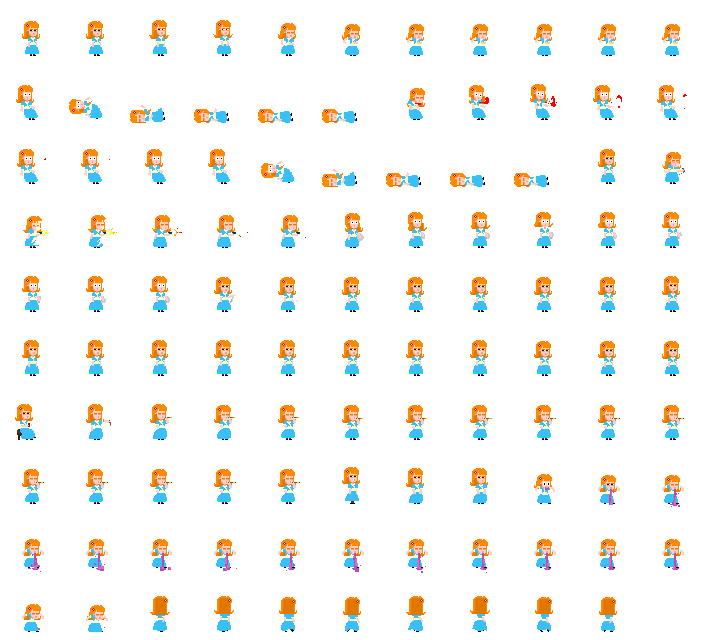
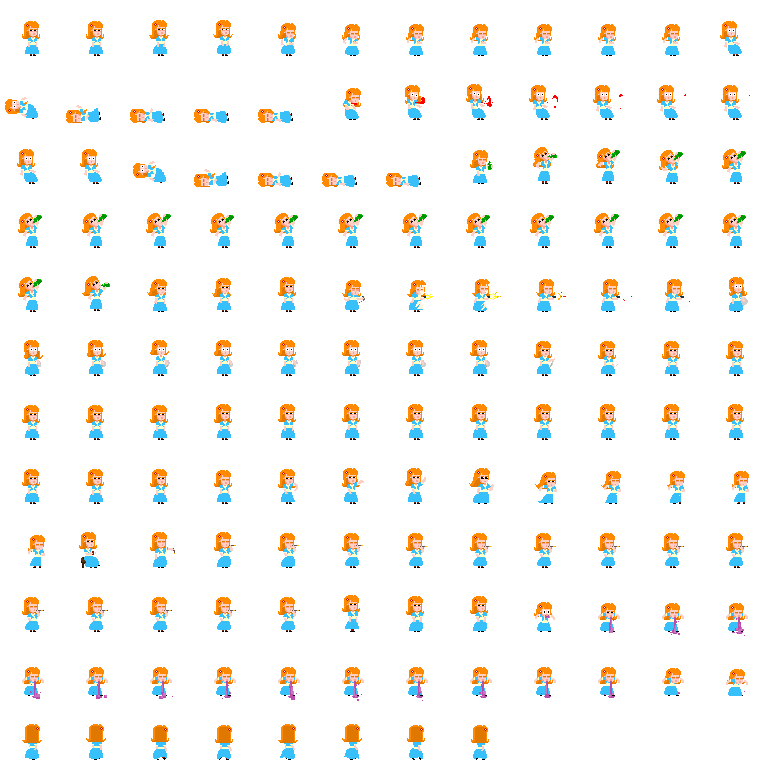
Add coin alert, Money ol, money managment

diff --git a/drunkparanoia/drunkparanoia/scene.py b/drunkparanoia/drunkparanoia/scene.py
@@ -10,7 +10,7 @@ from drunkparanoia.background import Prop, Background, Overlay
 from drunkparanoia.character import Character
 from drunkparanoia.coordinates import (
     box_hit_box, point_in_rectangle, box_hit_polygon, path_cross_polygon,
-    path_cross_rect)
+    path_cross_rect, Coordinates)
 from drunkparanoia.config import (
     DIRECTIONS, GAMEROOT, COUNTDOWNS, LOOP_STATUSES, CHARACTER_STATUSES,
     MAX_MESSAGES, VARIANTS_COUNT)
@@ -18,11 +18,11 @@ from drunkparanoia.duel import find_possible_duels
 from drunkparanoia.io import (
     load_image, load_data, quit_event, list_joysticks, image_mirror,
     choice_kill_sentence, choice_random_name, play_sound, stop_sound,
-    stop_ambiance)
+    stop_ambiance, load_frames)
 from drunkparanoia.joystick import get_current_commands
 from drunkparanoia.npc import Npc, Pianist, Barman, Sniper
 from drunkparanoia.player import Player
-from drunkparanoia.sprite import SpriteSheet
+from drunkparanoia.sprite import SpriteSheet, image_index_from_durations
 
 
 VIRGIN_SCORES = {
@@ -354,6 +354,7 @@ class Scene:
         self.stairs = []
         self.targets = []
         self.vfx = []
+        self.animated_vfx = []
         self.walls = []
         self.sniperreticles = []
         # Runtime
@@ -364,15 +365,21 @@ class Scene:
         self.character_generator = None
         self.messenger = Messenger()
 
+    def coins_position(self, index):
+        return self.data['score'][f'player{index + 1}']['coins_position']
+
     def create_vfx(self, name, position, flipped=True):
         for vfx in self.vfx:
-            if vfx.get('type') != 'static' or vfx.get('name') != name:
-                continue
-            image = load_image(vfx['file'])
-            if flipped:
-                image = image_mirror(image, horizontal=True)
-            self.overlays.append(Overlay(image, position, vfx['y']))
-            return
+            if vfx.get('type') == 'static' and vfx.get('name') == name:
+                image = load_image(vfx['file'])
+                if flipped:
+                    image = image_mirror(image, horizontal=True)
+                self.overlays.append(Overlay(image, position, vfx['y']))
+                return
+            if vfx.get('type') == 'animated' and vfx.get('name') == name:
+                data = load_data(vfx['file'])
+                self.animated_vfx.append(Vfx(data, position))
+                return
 
     @property
     def done(self):
@@ -428,7 +435,8 @@ class Scene:
     def elements(self):
         return (
             self.characters + self.props + self.overlays +
-            self.secondary_npcs + self.interactive_props)
+            self.secondary_npcs + self.interactive_props +
+            self.animated_vfx)
 
     def inclination_at(self, point):
         return next((
@@ -489,6 +497,16 @@ class Scene:
             self.possible_duels = []
             return
         self.possible_duels = find_possible_duels(self)
+        to_delete = []
+        for vfx in self.animated_vfx:
+            if vfx.type == 'static':
+                continue
+            if vfx.animation_is_done:
+                to_delete.append(vfx)
+                continue
+            next(vfx)
+        for vfx in to_delete:
+            self.animated_vfx.remove(vfx)
 
     @property
     def snipers(self):
@@ -627,3 +645,34 @@ class InteractionZone:
 
     def attract(self, position):
         return point_in_rectangle(position, *self.attraction)
+
+
+class Vfx:
+    def __init__(self, data, position):
+        print("create coin", data)
+        self.id = uuid.uuid1()
+        self.index = 0
+        self.type = data['type']
+        self.images = load_frames(data['sheet'], data['framesize'], None)
+        self.coordinates = Coordinates(position)
+        self.durations = data['durations']
+        self.switch = 2000
+
+    @property
+    def render_position(self):
+        return self.coordinates.position
+
+    def __next__(self):
+        print("next vfx")
+        if self.animation_is_done:
+            return
+        self.index += 1
+
+    @property
+    def image(self):
+        index = image_index_from_durations(self.index, self.durations)
+        return self.images[index]
+
+    @property
+    def animation_is_done(self):
+        return self.index >= sum(self.durations) - 1

diff --git a/drunkparanoia/drunkparanoia/render.py b/drunkparanoia/drunkparanoia/render.py
@@ -2,9 +2,9 @@
 import math
 import pygame
 from drunkparanoia import debug
-from drunkparanoia.io import get_image, get_font, load_image
+from drunkparanoia.io import get_image, get_font, load_image, get_coin_stack
 from drunkparanoia.config import LOOP_STATUSES
-from drunkparanoia.scene import column_to_group, get_score_data
+from drunkparanoia.scene import column_to_group, get_score_data, Vfx
 from drunkparanoia.character import Character
 from drunkparanoia.pathfinding import distance, seg_to_vector
 from drunkparanoia.pilot import SmoothPathPilot
@@ -195,10 +195,10 @@ def render_scene(screen, scene):
     screen.blit(duel_surface, (0, 0))
     # Sniper
     render_sniper_reticles(screen, scene)
-    chatacters = {
+    characters = {
         character for reticle in scene.sniperreticles
         for character in reticle.target_characters}
-    for character in chatacters:
+    for character in characters:
         image = get_image(character.image).copy()
         image.fill((255, 255, 255), special_flags=pygame.BLEND_ADD)
         image.set_alpha(50)
@@ -233,9 +233,13 @@ def render_players_ol_score(screen, scene):
         image = get_image(scene.life_image(player.index, player.life))
         position = scene.life_positions[player.index]
         screen.blit(image, position)
+    for player in scene.players:
         on = player.bullet_cooldown == 0
         image = get_image(scene.bullet_image(player.index, on))
         position = scene.bullet_positions[player.index]
+        screen.blit(image, position)
+        position = scene.coins_position(player.index)
+        image = get_coin_stack(player.coins)
         screen.blit(image, position)
 
 
@@ -278,7 +282,8 @@ def render_element(screen, element):
     except TypeError:
         print(img, get_image(img))
         raise
-
+    if isinstance(element, Vfx):
+        print("VFX")
     if debug.render_path:
         condition = (
             isinstance(element, Character) and

diff --git a/scripts/build_vfx.py b/scripts/build_vfx.py
@@ -1,0 +1,64 @@
+
+import sys
+import json
+from PySide6 import QtGui, QtCore
+import PIL.Image
+import math
+import os
+
+vfx = sys.argv[-1]
+
+repo_root = os.path.dirname(os.path.dirname(__file__))
+ref_root = f'{repo_root}/refs/frames/{vfx}'
+relative_output = f'resources/vfx/{vfx}.png'
+output = f'{repo_root}/drunkparanoia/{relative_output}'
+gamedata_output_path = f'{repo_root}/drunkparanoia/resources/vfx/{vfx}.json'
+
+
+def fill_canvas(canvas, images, column_lenght, frame_width, frame_height):
+    painter = QtGui.QPainter(canvas)
+    row, column = 0, 0
+    for image in images:
+        painter.drawImage(frame_width * column, frame_height * row, image)
+        column += 1
+        if column >= column_lenght:
+            column = 0
+            row += 1
+
+
+def get_canvas_size(frame_count, column_lenght, frame_width, frame_height):
+    row, column = 1, 0
+    for _ in range(frame_count):
+        column += 1
+        if column >= column_lenght:
+            column = 0
+            row += 1
+    return QtCore.QSize(frame_width * column_lenght, frame_height * row)
+
+
+frames = [f'{ref_root}/{f}' for f in os.listdir(ref_root)]
+width, height = PIL.Image.open(frames[0]).size
+images = [QtGui.QImage(image) for image in frames]
+print(images[0].format())
+column_lenght = math.ceil(math.sqrt(len(images)))
+
+
+data = {
+    'name': vfx,
+    'type': 'vfx',
+    'framesize': (width, height),
+    'sheet': relative_output,
+    'durations': [6 for _ in range(len(frames))]
+}
+
+
+with open(gamedata_output_path, 'w') as f:
+    json.dump(data, f, indent=2)
+
+canvas_size = get_canvas_size(len(images), column_lenght, width, height)
+canvas = QtGui.QImage(canvas_size, QtGui.QImage.Format_ARGB32)
+fill_canvas(canvas, images, column_lenght, width, height)
+canvas.save(output, "png")
+print(os.path.exists(os.path.dirname(output)))
+print(output, canvas.isNull())
+print(len(images))

diff --git a/drunkparanoia/drunkparanoia/npc.py b/drunkparanoia/drunkparanoia/npc.py
@@ -218,17 +218,29 @@ class Sniper:
         self.reticle = SniperReticle(zone, scene)
         self.interaction_zone = interaction_zone
         self.scene = scene
+        self.price = 1
         self.zone = zone
         scene.sniperreticles.append(self.reticle)
 
+    def create_coin_vfx(self):
+        position = list(self.coordinates.position)
+        position[0] += 25
+        self.scene.create_vfx('coin-alert', position)
+
     def corruption_attempt(self, player):
-        if player == self.reticle.player:
-            return True
-        if self.spritesheet.animation != 'idle':
+        if self.spritesheet.animation == 'gunshot-goback':
             return False
-        self.spritesheet.animation = 'go-aim'
-        self.spritesheet.index = 0
+        if self.price > player.coins:
+            return False
+        if player == self.reticle.player:
+            return False
+        player.coins -= self.price
+        self.price += 1
+        if self.spritesheet.animation == 'idle':
+            self.spritesheet.animation = 'go-aim'
+            self.spritesheet.index = 0
         self.reticle.player = player
+        self.create_coin_vfx()
         return True
 
     def meet(self, position):
@@ -261,6 +273,7 @@ class Sniper:
                 self.spritesheet.index = 0
 
     def shoot(self):
+        self.price = 1
         self.reticle.shoot()
         self.spritesheet.animation = 'gunshot-goback'
         self.spritesheet.index = 0

diff --git a/drunkparanoia/drunkparanoia/player.py b/drunkparanoia/drunkparanoia/player.py
@@ -15,6 +15,7 @@ class Player:
         self.life = COUNTDOWNS.MAX_LIFE
         self.bullet_cooldown = 0
         self.action_cooldown = 0
+        self.coins = 3
         self.index = index
         self.killer = None
         self.npc_killed = 0
@@ -122,7 +123,9 @@ class Player:
         if self.character.spritesheet.animation_is_done:
             if self.character.spritesheet.animation == 'order':
                 position = self.character.coordinates.position[:]
-                self.scene.create_interactive_prop(position, 'bottle')
+                if self.coins:
+                    self.scene.create_interactive_prop(position, 'bottle')
+                    self.coins -= 1
                 self.character.set_free()
                 return
             if self.character.spritesheet.animation == 'drink':
@@ -188,7 +191,8 @@ class Player:
         return False
 
     def check_snipers(self):
-        for sniper in self.scene.snipers:
-            if sniper.meet(self.character.coordinates.position):
-                return sniper.corruption_attempt(self)
-        return False
+        return next((
+            sniper.corruption_attempt(self)
+            for sniper in self.scene.snipers
+            if sniper.meet(self.character.coordinates.position)),
+            False)

diff --git a/drunkparanoia/drunkparanoia/io.py b/drunkparanoia/drunkparanoia/io.py
@@ -18,21 +18,26 @@ _variants = {}
 _sounds = {}
 
 
+def get_coin_stack(n):
+    path = f'resources/ui/coin-stack/coin-stack-{n:02}.png'
+    return get_image(load_image(path))
+
+
 def choice_random_name(gender):
-    global _name_generators
     if not _name_generators:
         filepath = f'{GAMEROOT}/resources/texts/names.json'
         with open(filepath, 'rb') as f:
             data = json.load(f)
 
-        man = data['man']
-        random.shuffle(man)
-        _name_generators['man'] = itertools.cycle(man)
-
-        woman = data['woman']
-        random.shuffle(woman)
-        _name_generators['woman'] = itertools.cycle(woman)
+        _populate_name_generators(data, 'man', _name_generators)
+        _populate_name_generators(data, 'woman', _name_generators)
     return next(_name_generators[gender])
+
+
+def _populate_name_generators(data, gender, _name_generators):
+    names = data[gender]
+    random.shuffle(names)
+    _name_generators[gender] = itertools.cycle(names)
 
 
 def build_random_variant(variants):

diff --git a/scripts/remove_green.py b/scripts/remove_green.py
@@ -15,7 +15,8 @@ files = (
     f"{repo_root}/drunkparanoia/resources/skins/janet_face.png",
     f"{repo_root}/drunkparanoia/resources/skins/janet_back.png",
     f"{repo_root}/drunkparanoia/resources/skins/sniper.png",
-    f"{repo_root}/drunkparanoia/resources/skins/barman.png",)
+    f"{repo_root}/drunkparanoia/resources/skins/barman.png",
+    f"{repo_root}/drunkparanoia/resources/vfx/coin-alert.png")
 for file in files:
     img = Image.open(file)
     img = img.convert("RGBA")

diff --git a/drunkparanoia/drunkparanoia/character.py b/drunkparanoia/drunkparanoia/character.py
@@ -244,6 +244,9 @@ class Character:
         if self.duel_target:
             self.duel_target.duel_target = None
             self.duel_target = None
+        if self.interacting_zone:
+            self.interacting_zone.busy = False
+            self.interacting_zone = None
         self.scene.kill_message(self, target)
 
     def release_duel(self):

diff --git a/scripts/build_pianist.py b/scripts/build_pianist.py
@@ -65,6 +65,7 @@ animations = {
 images = [image for images in animations.values() for image in images]
 width, height = PIL.Image.open(images[0]).size
 images = [QtGui.QImage(image) for image in images]
+print(images[0].format())
 column_lenght = math.ceil(math.sqrt(len(images)))
 
 start = 0

diff --git a/drunkparanoia/drunkparanoia/config.py b/drunkparanoia/drunkparanoia/config.py
@@ -26,7 +26,7 @@ HARD_PATH_SELECTION_RADIUS = 25
 SMOOTH_PATH_USAGE_PROBABILITY = 7
 HARD_PATH_USAGE_PROBABILITY = 10
 MAX_MESSAGES = 3
-VARIANTS_COUNT = 1
+VARIANTS_COUNT = 6
 
 
 class DUEL:
